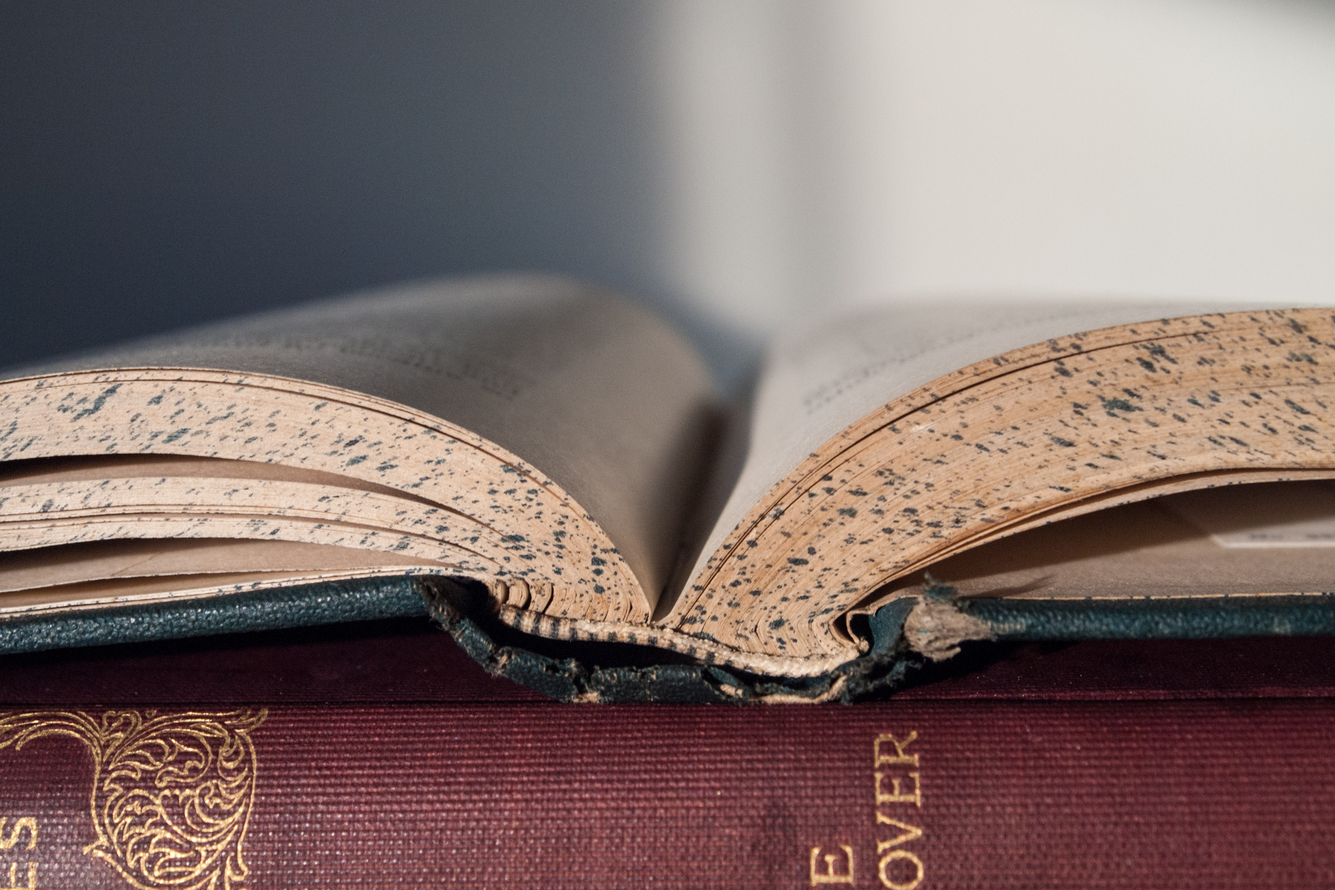
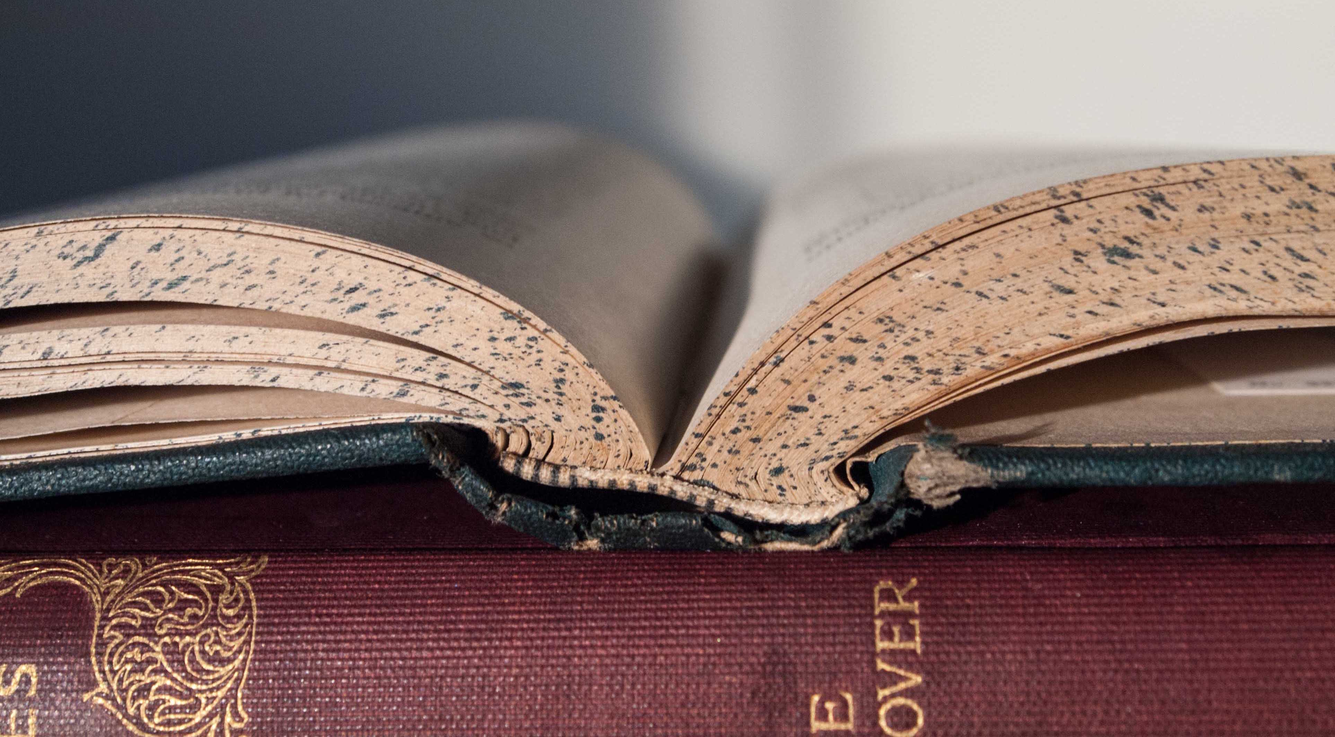
git before change

diff --git a/styles.css b/styles.css
@@ -209,10 +209,10 @@ body {
 
 .leadimage {
   height: 30em;
-  background-image: url(hand-book.jpg);
+  background-image: url(books-novels.jpg);
   background-repeat: no-repeat;
   background-size: cover;
-  background-position: center;
+  background-position: bottom;
 }
 
 main{ width: 100%;}
